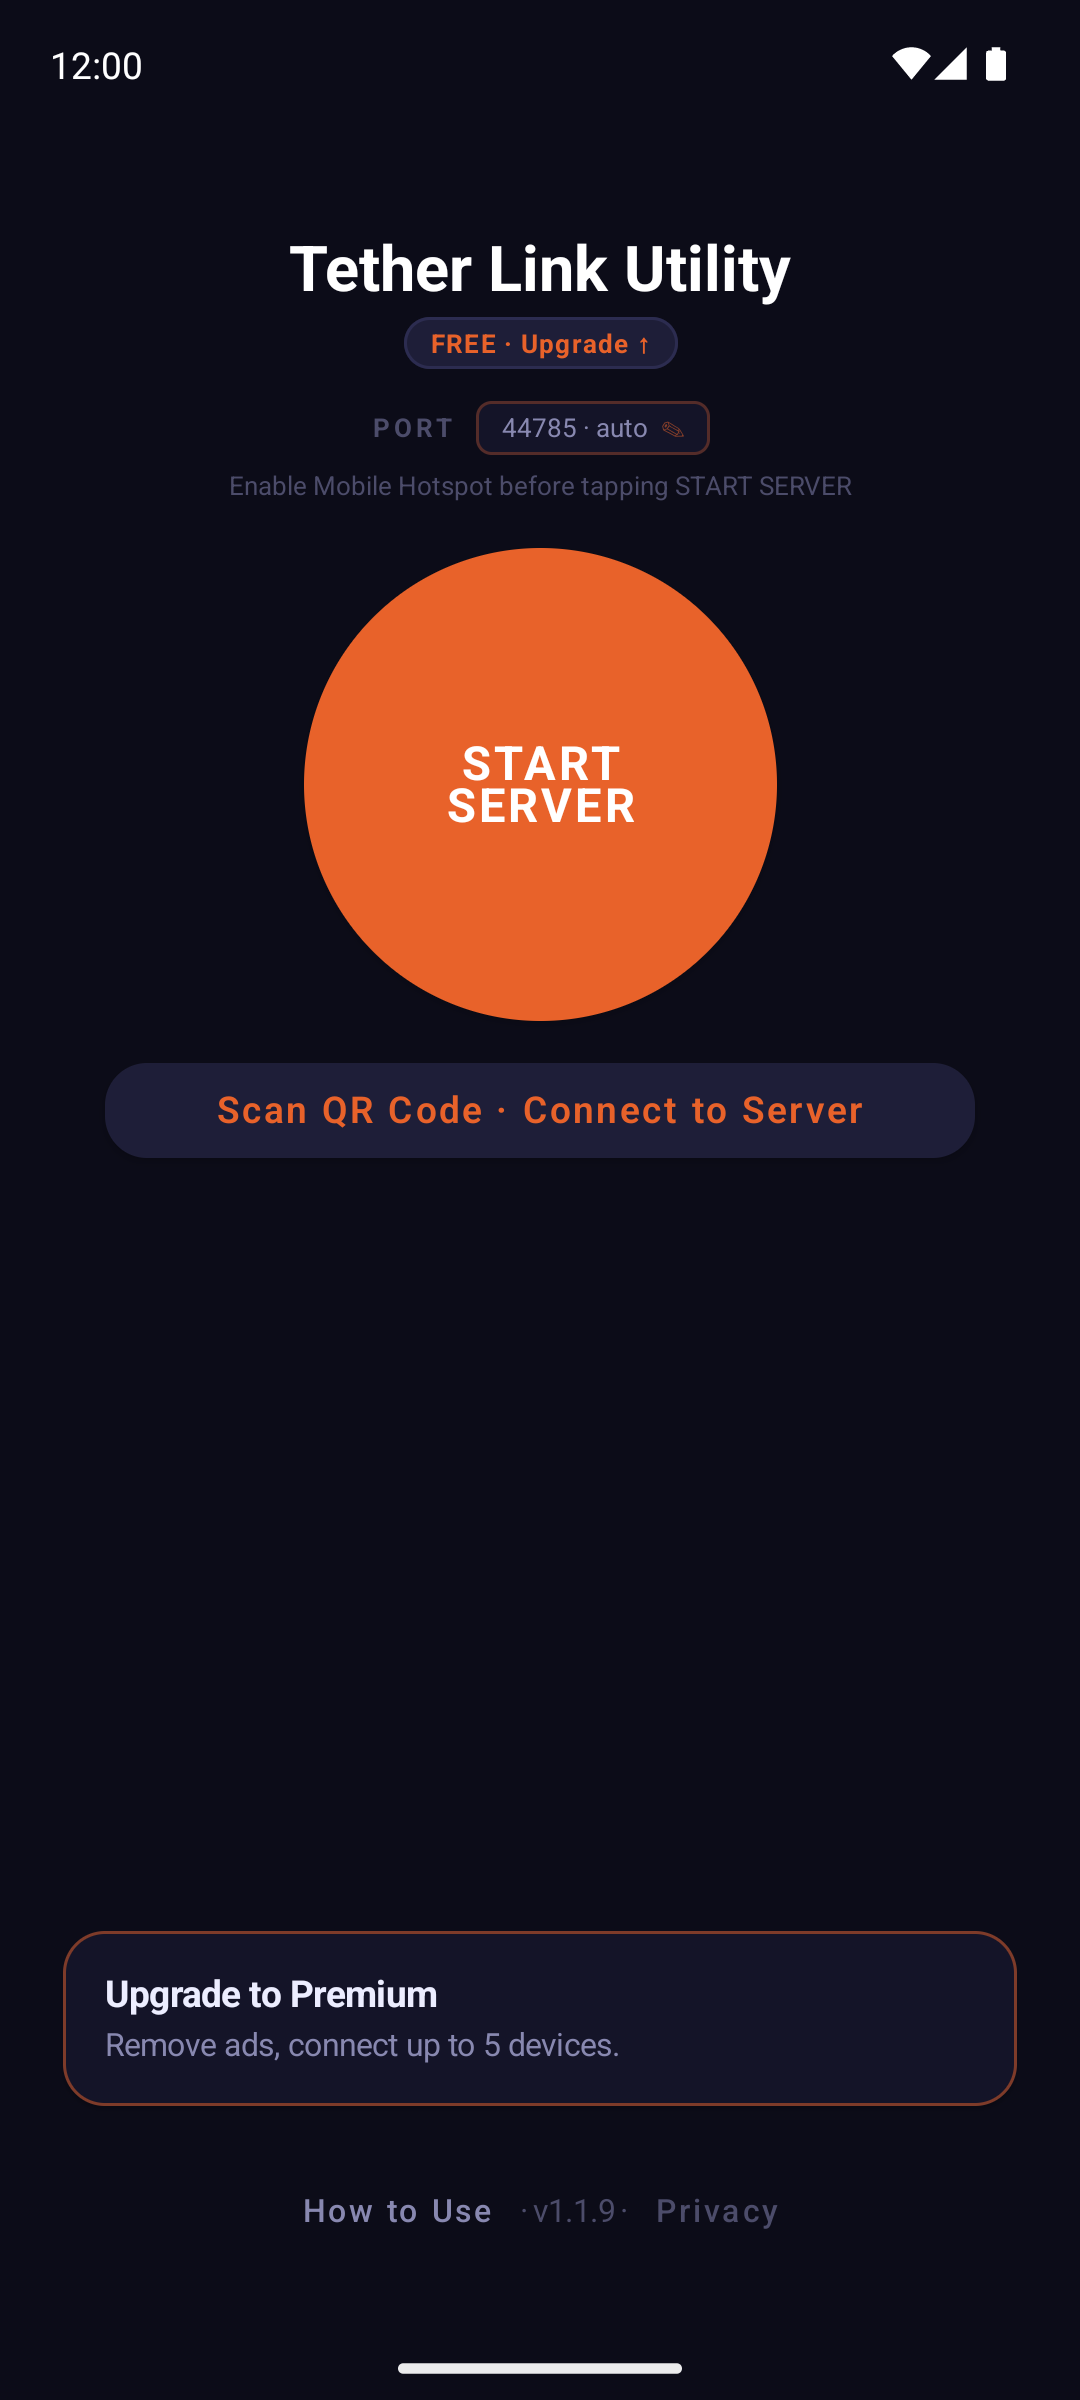
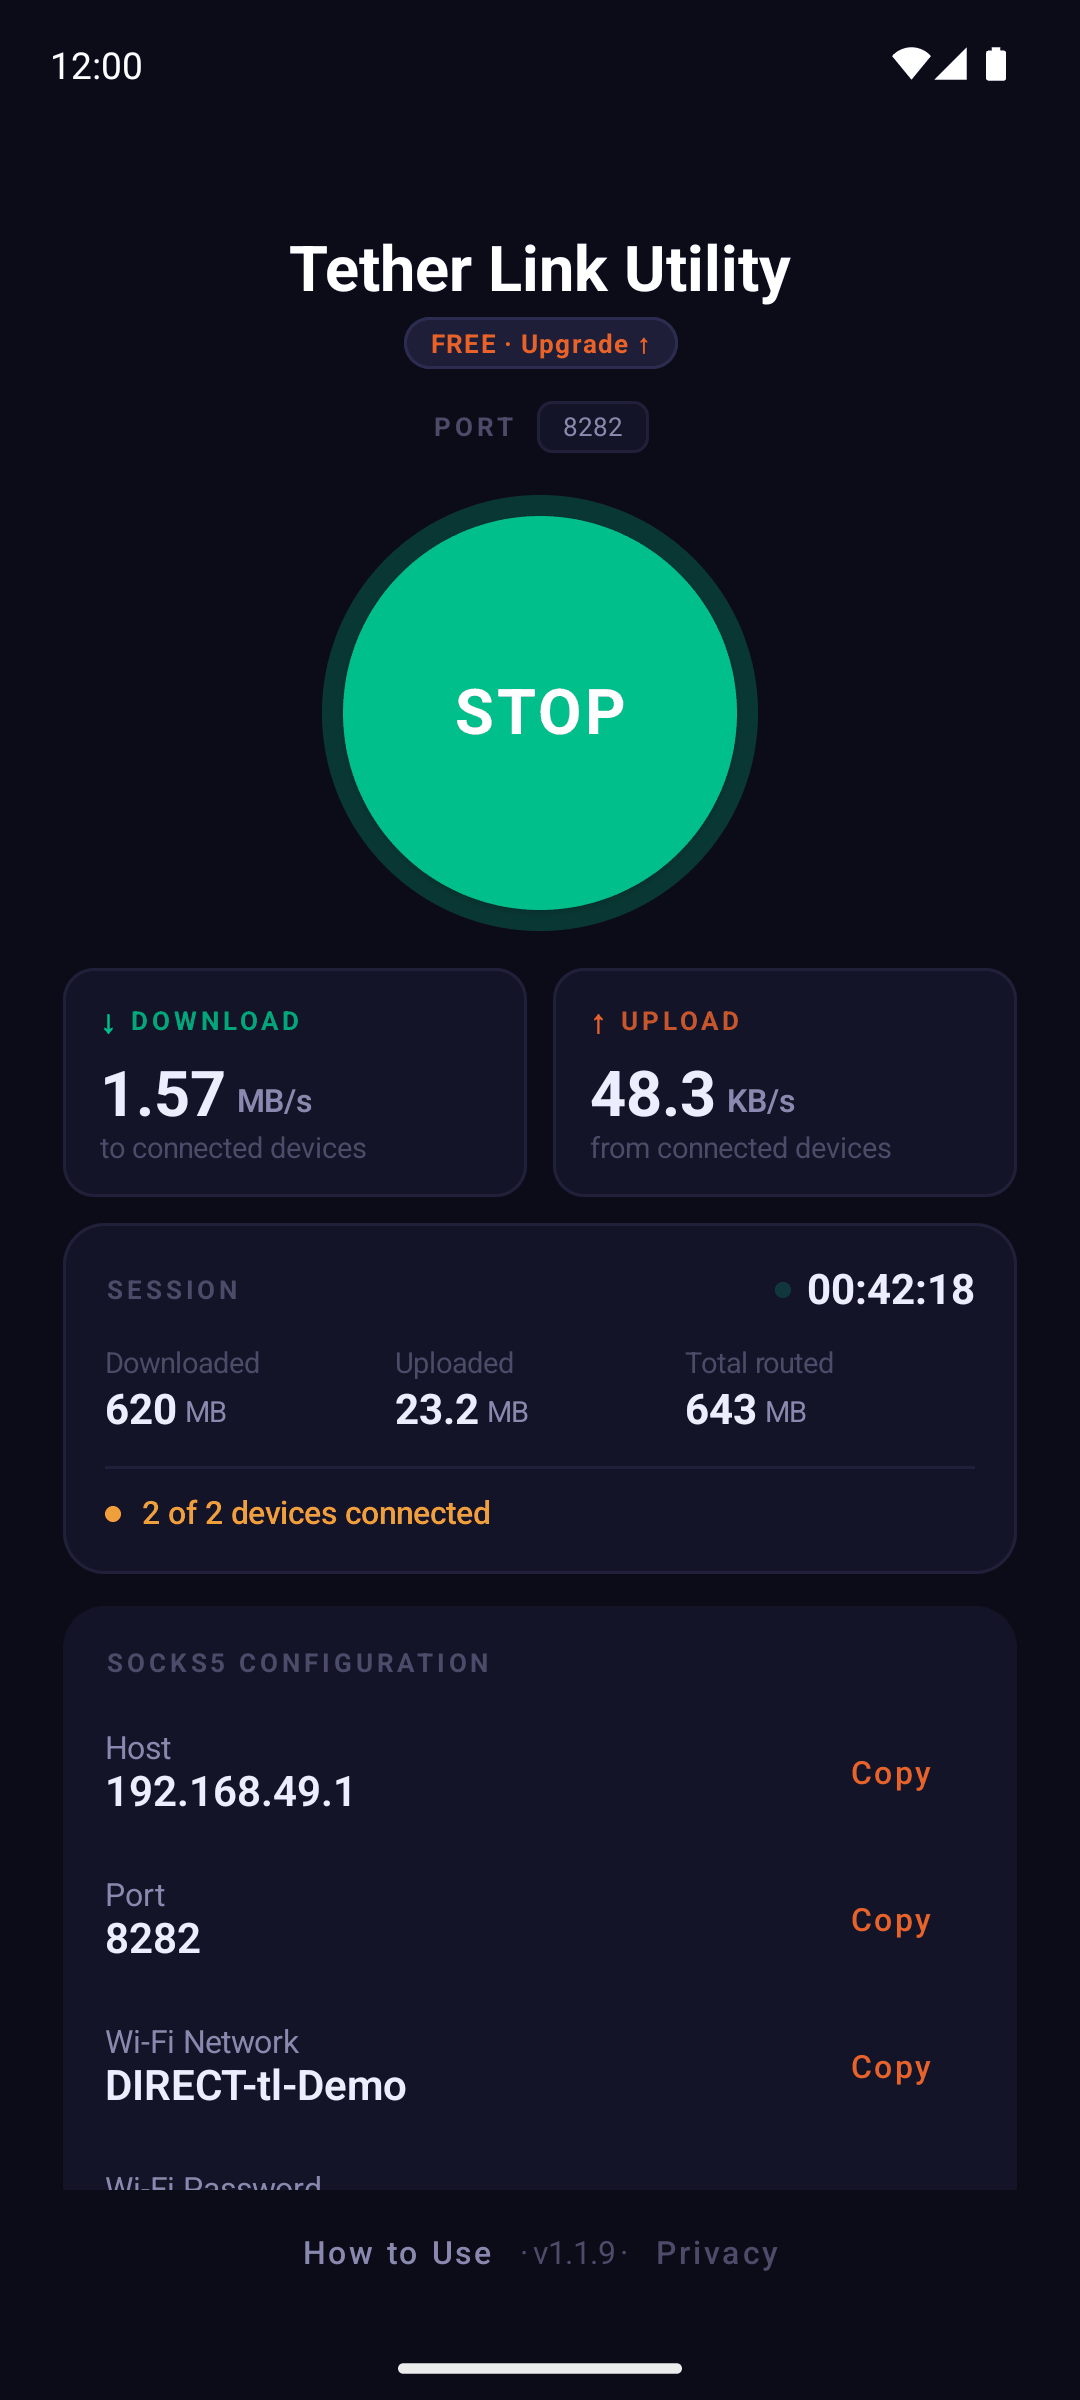
Hero: running dashboard screenshots (EN, TR)

diff --git a/hi/index.html b/hi/index.html
@@ -822,7 +822,7 @@
     </div>
     <div class="hero-canvas-wrap">
       <div class="hero-phone-frame">
-        <img src="/app-screenshot.png" alt="Android पर Tether Link Utility, Start Server स्क्रीन" width="1080" height="2400" fetchpriority="high" />
+        <img src="/app-screenshot.png" alt="Android पर चल रहा Tether Link Utility: लाइव डाउनलोड और अपलोड स्पीड, सेशन आंकड़े, 2 डिवाइस कनेक्टेड और SOCKS5 होस्ट व पोर्ट" width="1080" height="2400" fetchpriority="high" />
       </div>
     </div>
   </section>

diff --git a/tr/index.html b/tr/index.html
@@ -765,7 +765,7 @@
     </div>
     <div class="hero-canvas-wrap">
       <div class="hero-phone-frame">
-        <img src="/app-screenshot.png" alt="Android'de çalışan Tether Link Utility, Sunucu Başlat ekranı" width="1080" height="2400" fetchpriority="high" />
+        <img src="/app-screenshot-tr.png" alt="Android'de çalışan Tether Link Utility: anlık indirme ve yükleme hızı, oturum istatistikleri, 2 bağlı cihaz ve SOCKS5 host ile port bilgisi" width="1080" height="2400" fetchpriority="high" />
       </div>
     </div>
   </section>

diff --git a/index.html b/index.html
@@ -822,7 +822,7 @@
     </div>
     <div class="hero-canvas-wrap">
       <div class="hero-phone-frame">
-        <img src="/app-screenshot.png" alt="Tether Link Utility running on Android, Start Server screen" width="1080" height="2400" fetchpriority="high" />
+        <img src="/app-screenshot.png" alt="Tether Link Utility running on Android: live download and upload speed, session stats, 2 devices connected and SOCKS5 host and port" width="1080" height="2400" fetchpriority="high" />
       </div>
     </div>
   </section>
